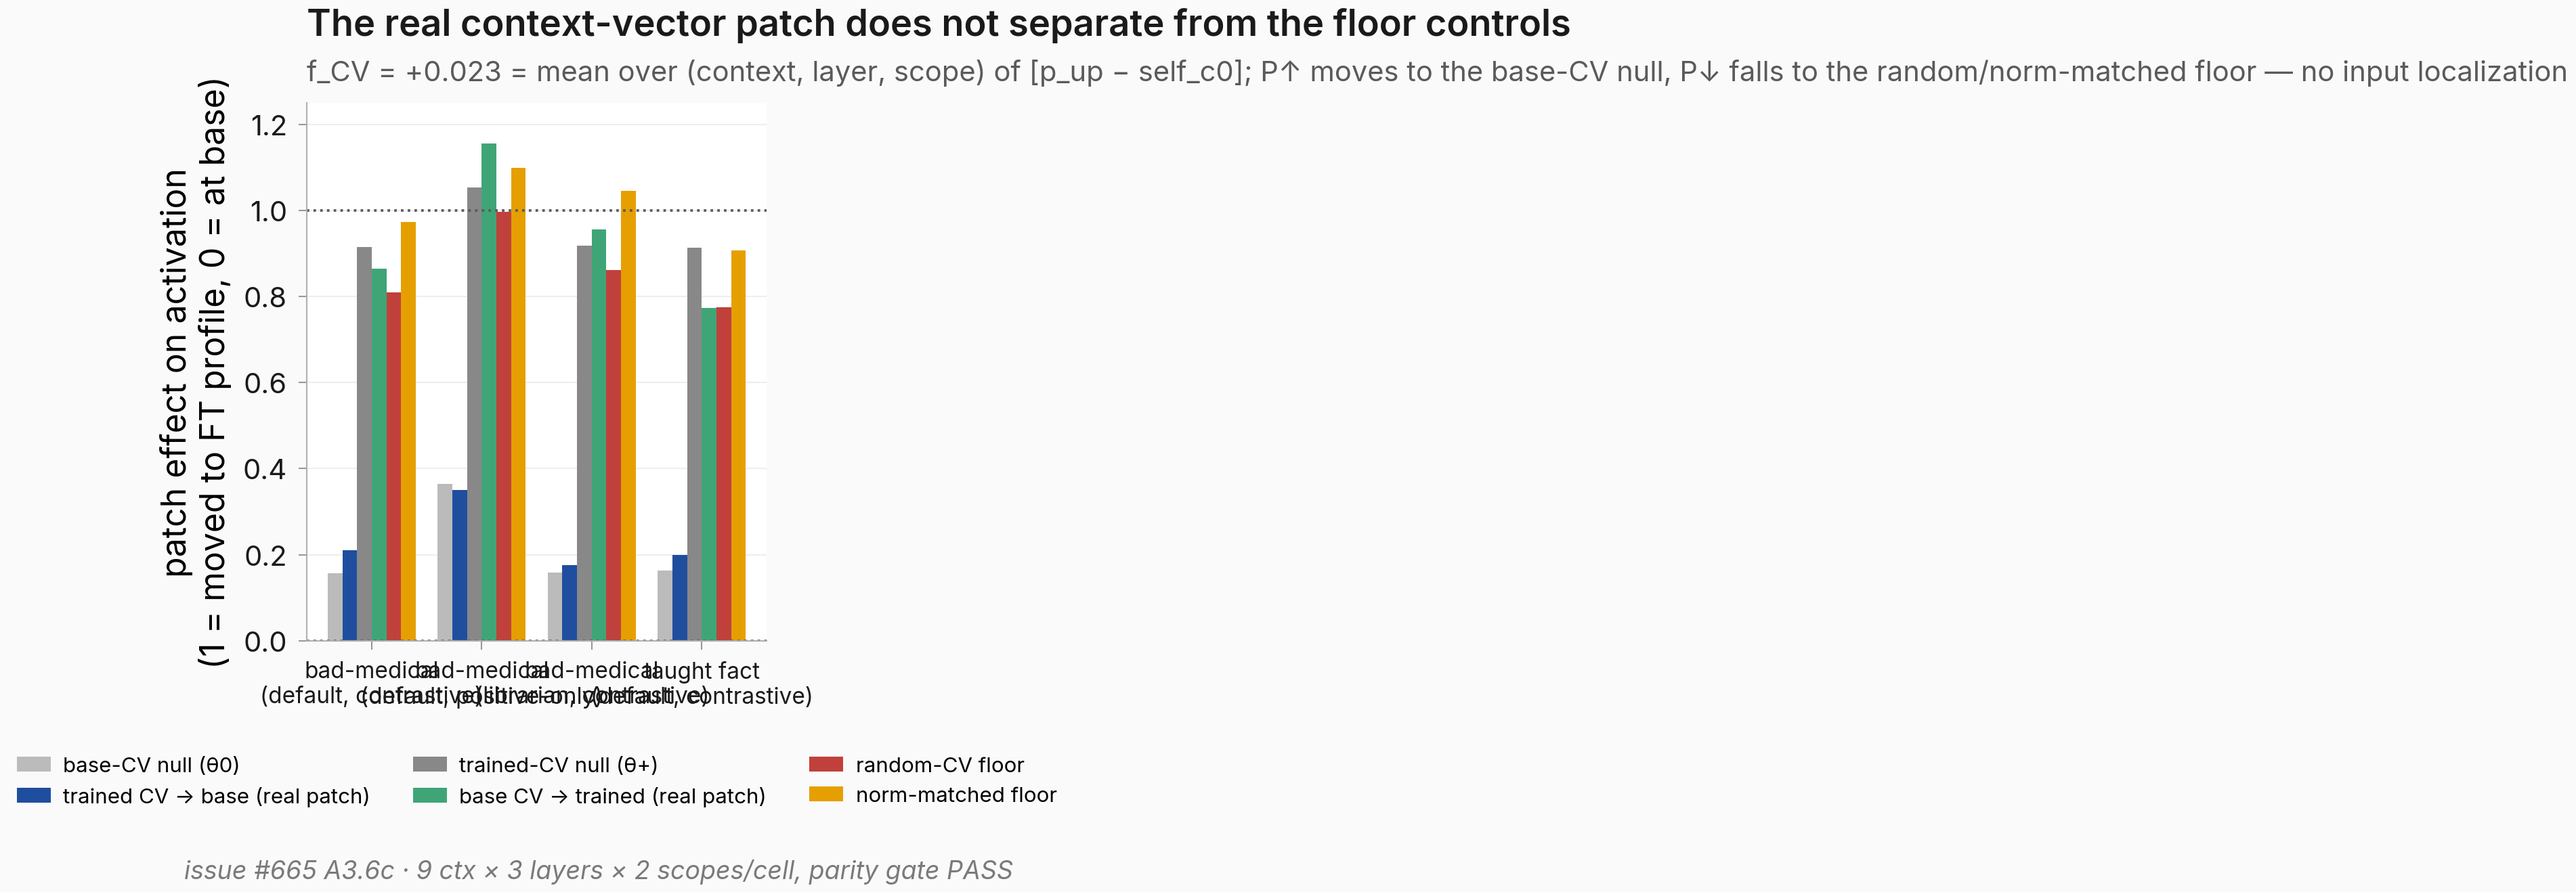
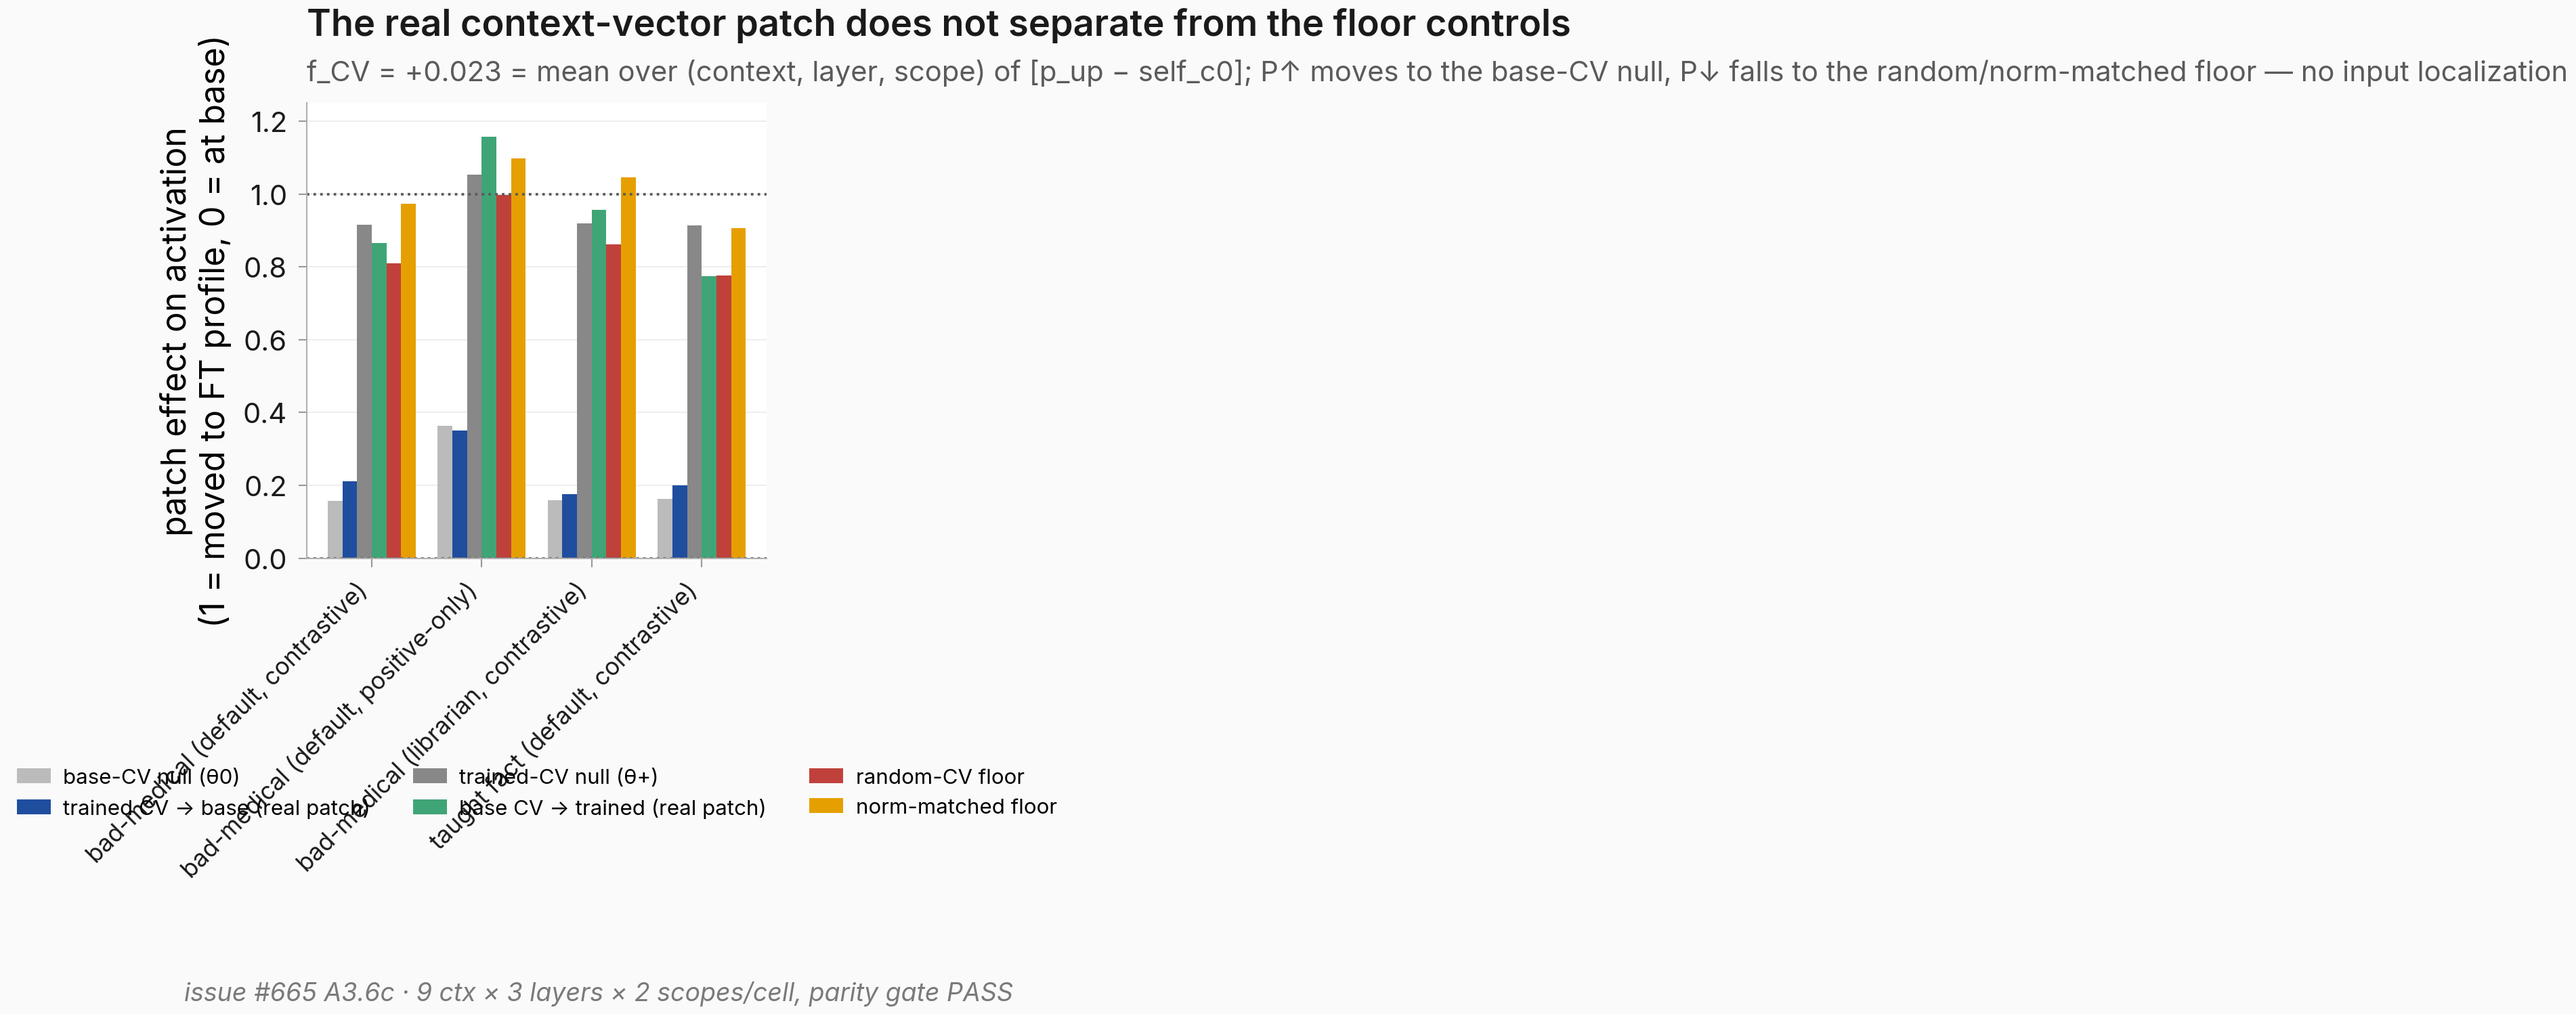
task #665: regenerate Fig4 with legible rotated x-axis labels (reconciler REVISE)

Changed region(s): [[0.0, 0.0311, 0.4033, 0.9021], [0.1241, 0.0, 1.0, 0.0933], [0.062, 0.9643, 0.4033, 0.9954]]

diff --git a/scripts/issue665_clean_result_figs.py b/scripts/issue665_clean_result_figs.py
@@ -187,10 +187,10 @@ def fig3():
 # ── fig4: A3.6c causal context-vector patch vs floor controls ──
 def fig4():
     cells = {
-        "bm_default_contra_d2_seed42": "bad-medical\n(default, contrastive)",
-        "bm_default_posonly_d2_seed42": "bad-medical\n(default, positive-only)",
-        "bm_librarian_contra_d2_seed42": "bad-medical\n(librarian, contrastive)",
-        "tf_default_contra_d2_seed42": "taught fact\n(default, contrastive)",
+        "bm_default_contra_d2_seed42": "bad-medical (default, contrastive)",
+        "bm_default_posonly_d2_seed42": "bad-medical (default, positive-only)",
+        "bm_librarian_contra_d2_seed42": "bad-medical (librarian, contrastive)",
+        "tf_default_contra_d2_seed42": "taught fact (default, contrastive)",
     }
     variant_label = {
         "self_c0": "base-CV null (θ0)",
@@ -209,7 +209,7 @@ def fig4():
         "random_cv": paper_palette_role("accent"),
         "norm_matched": "#E69F00",
     }
-    fig, ax = plt.subplots(figsize=(8.0, 4.4))
+    fig, ax = plt.subplots(figsize=(8.0, 5.0))
     ncells = len(cells)
     nvar = len(order)
     gw = 0.8
@@ -231,10 +231,10 @@ def fig4():
     ax.axhline(1.0, color="#5A5A5A", lw=0.9, ls=":")
     ax.axhline(0.0, color="#5A5A5A", lw=0.9, ls=":")
     ax.set_xticks(xc)
-    ax.set_xticklabels(list(cells.values()), fontsize=8)
+    ax.set_xticklabels(list(cells.values()), fontsize=8.5, rotation=45, ha="right")
     ax.set_ylabel("patch effect on activation\n(1 = moved to FT profile, 0 = at base)")
     ax.set_ylim(0, 1.25)
-    ax.legend(loc="upper center", ncol=3, frameon=False, fontsize=7.5, bbox_to_anchor=(0.5, -0.18))
+    ax.legend(loc="upper center", ncol=3, frameon=False, fontsize=7.5, bbox_to_anchor=(0.5, -0.42))
     set_title_subtitle(
         ax,
         "The real context-vector patch does not separate from the floor controls",
